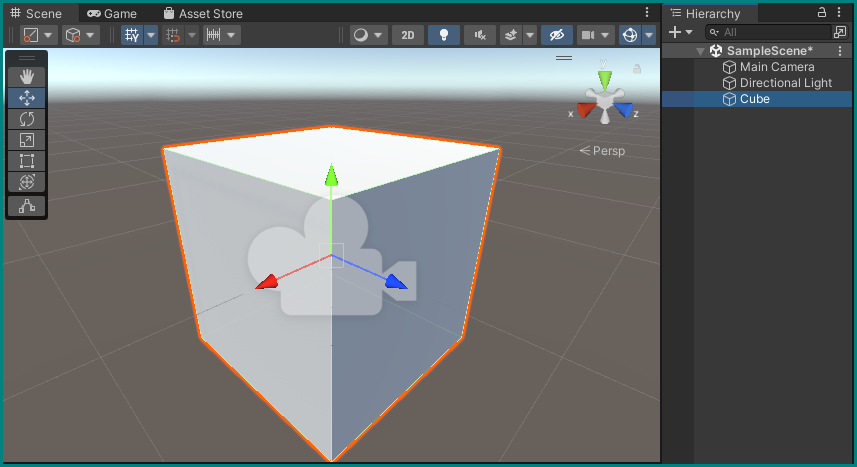
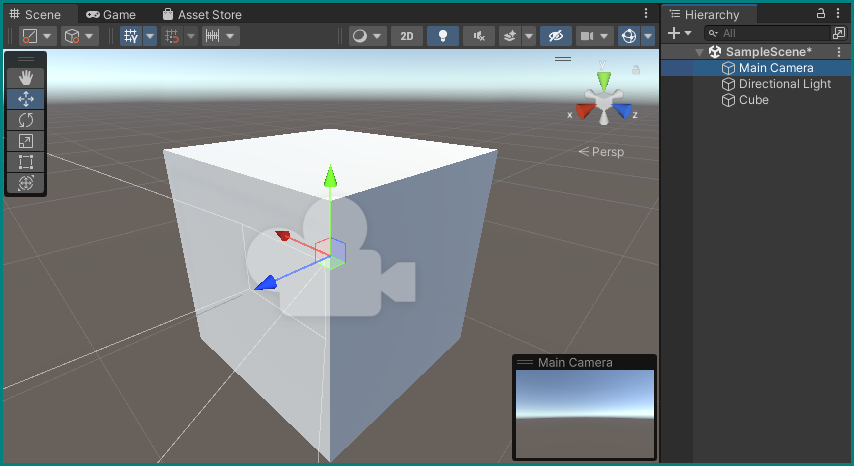
Get ready to code

diff --git a/site/page-1/index.html b/site/page-1/index.html
@@ -66,7 +66,7 @@
     <div data-md-component="skip">
       
         
-        <a href="#first-unity-project" class="md-skip">
+        <a href="#first-unity-project-getting-to-know-the-editors" class="md-skip">
           Skip to content
         </a>
       
@@ -254,8 +254,36 @@
     <ul class="md-nav__list" data-md-component="toc" data-md-scrollfix>
       
         <li class="md-nav__item">
-  <a href="#create-a-project-using-the-hub" class="md-nav__link">
-    Create A Project Using The Hub
+  <a href="#create-a-first-project-using-the-unity-hub" class="md-nav__link">
+    Create a first project using the Unity Hub
+  </a>
+  
+</li>
+      
+        <li class="md-nav__item">
+  <a href="#setting-up-the-editor" class="md-nav__link">
+    Setting up the Editor
+  </a>
+  
+</li>
+      
+        <li class="md-nav__item">
+  <a href="#scene-hierarchy-and-camera-views-inspector" class="md-nav__link">
+    Scene, Hierarchy, and Camera Views + Inspector
+  </a>
+  
+</li>
+      
+        <li class="md-nav__item">
+  <a href="#creating-a-first-object" class="md-nav__link">
+    Creating a first object
+  </a>
+  
+</li>
+      
+        <li class="md-nav__item">
+  <a href="#animating-an-object" class="md-nav__link">
+    Animating an object
   </a>
   
 </li>
@@ -310,8 +338,36 @@
     <ul class="md-nav__list" data-md-component="toc" data-md-scrollfix>
       
         <li class="md-nav__item">
-  <a href="#create-a-project-using-the-hub" class="md-nav__link">
-    Create A Project Using The Hub
+  <a href="#create-a-first-project-using-the-unity-hub" class="md-nav__link">
+    Create a first project using the Unity Hub
+  </a>
+  
+</li>
+      
+        <li class="md-nav__item">
+  <a href="#setting-up-the-editor" class="md-nav__link">
+    Setting up the Editor
+  </a>
+  
+</li>
+      
+        <li class="md-nav__item">
+  <a href="#scene-hierarchy-and-camera-views-inspector" class="md-nav__link">
+    Scene, Hierarchy, and Camera Views + Inspector
+  </a>
+  
+</li>
+      
+        <li class="md-nav__item">
+  <a href="#creating-a-first-object" class="md-nav__link">
+    Creating a first object
+  </a>
+  
+</li>
+      
+        <li class="md-nav__item">
+  <a href="#animating-an-object" class="md-nav__link">
+    Animating an object
   </a>
   
 </li>
@@ -331,11 +387,11 @@
                   
 
 
-<h1 id="first-unity-project">First Unity Project</h1>
+<h1 id="first-unity-project-getting-to-know-the-editors">First Unity Project — getting to know the Editors</h1>
 <p><img src="0-hub-app.png" alt="Iconic" width="200"/></p>
 <!-- ![Unity Hub Desktop Icon](assets/page-1/0-hub-app.png "Iconic") -->
 
-<h2 id="create-a-project-using-the-hub">Create A Project Using The Hub</h2>
+<h2 id="create-a-first-project-using-the-unity-hub">Create a first project using the Unity Hub</h2>
 <p>If not already running on your computer, start the Unity Hub (see the icon above). Depending on previous use there may be already projects listed in its window — if so, disregard them for now and just click the <strong>New project</strong> button.</p>
 <p><img alt="The Unity Hub" src="0-hub-new.png" title="The Unity Hub" /></p>
 <p>You will be presented with a dialog to configure the project. Usually it's already all set up correctly, but to make sure just verify the following points:</p>
@@ -347,6 +403,53 @@
 <p><img alt="Creating a new project" src="1-hub-create.png" title="My first Unity Project" /></p>
 <p>Pushing the <strong>Create project</strong> button will open the <em>Unity Editor</em> and tell it create a new project with the above parameters. This may take some time…</p>
 <p><img alt="Now Printing" src="2-wait.png" title="なうぷりんてぃんぐ" /></p>
+<h2 id="setting-up-the-editor">Setting up the Editor</h2>
+<p>Once this process is complete, you will see a the Unity Editor in its default configuration, showing a blank <em>scene.</em></p>
+<p><img alt="Raw Unity" src="3-raw-unity.png" title="Blank and raw" /></p>
+<p>You can leave this as is, or drag the tab handles and section dividers around to create a more comfortable working environment. One particularly important change would be to permanently reveal the <em>Console</em> window by dragging the <em>Project</em> window it's being obscured by to a new location. Below is our suggested arrangement with new placements of the <em>Hierarchy,</em> <em>Project,</em> and <em>Console</em> windows.</p>
+<p><img alt="Comfortable Unity" src="4-better-unity.png" title="That's better." /></p>
+<p>The biggest part should show you the <em><strong>Scene</strong> View,</em> where you can freely navigate using common 3D software controls, like zooming in and out with the mouse wheel, rotating by holding the right mouse button, and translating your position by holding the middle mouse button. See the <a href="https://docs.unity3d.com/Manual/SceneViewNavigation.html">official Unity manual</a> on more information on this.</p>
+<h2 id="scene-hierarchy-and-camera-views-inspector">Scene, Hierarchy, and Camera Views + Inspector</h2>
+<p>The Scene View shows you the contents of your currently open <em>Scene</em> — a kind of super <em>Object</em> that holds all other objects. A full overview of all objects and their relationships is shown in the <em><strong>Hierarchy</strong> window</em> — as you can see, it currently only contains our only Scene (<strong>SampleScene</strong>), which holds a simple <em>Directional Light</em> for illuminating the world and the <em>Main Camera</em> that lets a player see it. Let's select that camera by clicking on it in the <em>Hierarchy</em> or on its <em>Gizmo</em> (camera icon) in the <em>Scene</em> view:</p>
+<p><img alt="Selected Camera" src="5-select-camera.png" title="Inspecting the camera" /></p>
+<p>It is now highlighted in both <em>Scene</em> and <em>Hierarchy</em> views, as shown by a highlight and the appearance of arrows pointing in the cardinal directions around the object. In addition, a view from this camera now shows up in the Scene view as a floating window: this is what a player of this game will see if we run it. The same view is visible in a full window by selecting the <em>Game</em> tab in the Scene window.</p>
+<p>Another thing that happens when we select a <em>Game Object</em> like this camera in the editor is the appearance of this object's <em><strong>Inspector</strong></em> in its previously empty window to the top right. This window allows us to view and change every single aspect of any Game Object, which may differ by their type. One <em>Component</em> all possible objects, be they cameras, lights, or dinosaur models share is their <em>Transform:</em> a grid that contains the coordinates of their position, rotation vector, and its scale.</p>
+<details class="info">
+<summary>Transforms and Hierarchies</summary>
+<p>In the case of the camera and light and any other objects directly under the <strong>SampleScene</strong> Scene object, these coordinates are equivalent to their "world" coordinates. For any object that sits below another in the Hierarchy, these coordinates are basically offset by those of their <em>Parent.</em> See Unity's documentation on the <a href="https://docs.unity3d.com/Manual/Hierarchy.html">Hierarchy</a> and <a href="https://docs.unity3d.com/Manual/class-Transform.html">Transforms</a> for more details.</p>
+</details>
+<p>Let's set the camera's Position to the <em>origin</em> and rotate it to point in the blue arrow's (the Z-axis) direction by editing its Transform Component accordingly: set Position <code>X=0, Y=0, Z=0</code> and Rotation <code>X=0, Y=90, Z=0</code>.</p>
+<p><img alt="Moved Camera" src="6-camera-transform.png" title="Moved the camera" /></p>
+<h2 id="creating-a-first-object">Creating a first object</h2>
+<p>Let's bring a cube into the scene.</p>
+<p>While you can go to the main menu under <em>GameObject</em> and select what you want to create, a more precise way is to right-click on an empty part of the Hierarchy and selecting <strong>3D Object → Cube</strong>. This will create a basic cube <em>GameObject</em> inside our Scene, with a default Transform. If we had right-clicked on any existing object in the scene instead of on an empty space, we would have created a <em>child</em> object that would be tied to its <em>parent,</em> and this is not what we want in this case.</p>
+<p><img alt="Adding a cube" src="7-create-box.png" title="Basic Box" /></p>
+<p>If you double-click on the new Cube object in the hierarchy, the scene view will fully zoom into it, showing that it basically swallowed our camera. If you select our camera object again, its view (or the Game View) won't show the cube — the way most 3D engines work, objects are transparent from the inside.</p>
+<p><img alt="Big box" src="8-big-box.png" title="Big Box" /></p>
+<p>Let's move the box to a position where the camera can see it, and also try making it smaller by setting its transform component to Position <code>X=2, Y=0, Z=0</code> and Scale <code>X=0.2, Y=0.2, Z=0.2</code>.</p>
+<p>Selecting our camera again, we can now see a small box appearing at the center of its view. If the cube is now gone from our scene view, just zoom out a bit, or double-click it again in the hierarchy.</p>
+<p><img alt="Small box" src="9-small-box.png" title="smol box" /></p>
+<p>You can keep playing around with the cube's Transform component to move it around and scale it, or also use the handles in the scene view: dragging one of the three arrows or the squares between them will also change the transform accordingly.</p>
+<details class="info">
+<summary>More on Positioning</summary>
+<p>There are many more ways to change the transform with the mouse. You can switch transform modes by pressing <strong>W</strong>, <strong>E</strong>, <strong>R</strong>, or by selecting the different icons in the little floating window in the scene view to move, rotate, scale an object, respectively. See the <a href="https://docs.unity3d.com/Manual/PositioningGameObjects.html">Unity Documentation</a> for more details on this.</p>
+</details>
+<h2 id="animating-an-object">Animating an object</h2>
+<p>All we did so far is not much different than using any basic 3D creation software. Where a game engine like Unity differs, is its ability of freely <em>scripting</em> the objects we place in scenes, using programming languages.</p>
+<div class="highlight"><span class="filename">Rotating.cs</span><pre><span></span><code><a id="__codelineno-0-1" name="__codelineno-0-1" href="#__codelineno-0-1"></a><span class="k">using</span><span class="w"> </span><span class="nn">UnityEngine</span><span class="p">;</span><span class="w"></span>
+<a id="__codelineno-0-2" name="__codelineno-0-2" href="#__codelineno-0-2"></a>
+<a id="__codelineno-0-3" name="__codelineno-0-3" href="#__codelineno-0-3"></a><span class="k">public</span><span class="w"> </span><span class="k">class</span><span class="w"> </span><span class="nc">Rotating</span><span class="w"> </span><span class="p">:</span><span class="w"> </span><span class="n">MonoBehaviour</span><span class="w"></span>
+<a id="__codelineno-0-4" name="__codelineno-0-4" href="#__codelineno-0-4"></a><span class="p">{</span><span class="w"></span>
+<a id="__codelineno-0-5" name="__codelineno-0-5" href="#__codelineno-0-5"></a><span class="w">    </span><span class="na">[Tooltip(&quot;Units per second&quot;)]</span><span class="w"> </span><span class="k">public</span><span class="w"> </span><span class="kt">float</span><span class="w"> </span><span class="n">speed</span><span class="p">;</span><span class="w"> </span><span class="c1">// Set to 180 in editor</span>
+<a id="__codelineno-0-6" name="__codelineno-0-6" href="#__codelineno-0-6"></a><span class="w">    </span><span class="na">[Tooltip(&quot;Axis to rotate around&quot;)]</span><span class="w"> </span><span class="k">public</span><span class="w"> </span><span class="n">Vector3</span><span class="w"> </span><span class="n">axis</span><span class="p">;</span><span class="w"> </span><span class="c1">// Set to (1,0,0) in editor</span>
+<a id="__codelineno-0-7" name="__codelineno-0-7" href="#__codelineno-0-7"></a>
+<a id="__codelineno-0-8" name="__codelineno-0-8" href="#__codelineno-0-8"></a><span class="w">    </span><span class="c1">// Update is called once per frame</span>
+<a id="__codelineno-0-9" name="__codelineno-0-9" href="#__codelineno-0-9"></a><span class="w">    </span><span class="k">void</span><span class="w"> </span><span class="nf">Update</span><span class="p">()</span><span class="w"></span>
+<a id="__codelineno-0-10" name="__codelineno-0-10" href="#__codelineno-0-10"></a><span class="w">    </span><span class="p">{</span><span class="w"></span>
+<a id="__codelineno-0-11" name="__codelineno-0-11" href="#__codelineno-0-11"></a><span class="w">        </span><span class="n">transform</span><span class="p">.</span><span class="n">Rotate</span><span class="p">(</span><span class="n">axis</span><span class="p">,</span><span class="w"> </span><span class="n">speed</span><span class="w"> </span><span class="p">*</span><span class="w"> </span><span class="n">Time</span><span class="p">.</span><span class="n">deltaTime</span><span class="p">);</span><span class="w"></span>
+<a id="__codelineno-0-12" name="__codelineno-0-12" href="#__codelineno-0-12"></a><span class="w">    </span><span class="p">}</span><span class="w"></span>
+<a id="__codelineno-0-13" name="__codelineno-0-13" href="#__codelineno-0-13"></a><span class="p">}</span><span class="w"></span>
+</code></pre></div>
 
 
 
@@ -358,11 +461,6 @@
           
           
         </div>
-        
-          <a href="#" class="md-top md-icon" data-md-component="top" hidden>
-            <svg xmlns="http://www.w3.org/2000/svg" viewBox="0 0 24 24"><path d="M13 20h-2V8l-5.5 5.5-1.42-1.42L12 4.16l7.92 7.92-1.42 1.42L13 8v12Z"/></svg>
-            Back to top
-          </a>
         
       </main>
       
@@ -425,7 +523,7 @@
       <div class="md-dialog__inner md-typeset"></div>
     </div>
     
-    <script id="__config" type="application/json">{"base": "..", "features": ["navigation.tracking", "navigation.instant", "navigation.indexes", "toc.follow", "navigation.top", "header.autohide"], "search": "../assets/javascripts/workers/search.5bf1dace.min.js", "translations": {"clipboard.copied": "Copied to clipboard", "clipboard.copy": "Copy to clipboard", "search.config.lang": "en", "search.config.pipeline": "trimmer, stopWordFilter", "search.config.separator": "[\\s\\-]+", "search.placeholder": "Search", "search.result.more.one": "1 more on this page", "search.result.more.other": "# more on this page", "search.result.none": "No matching documents", "search.result.one": "1 matching document", "search.result.other": "# matching documents", "search.result.placeholder": "Type to start searching", "search.result.term.missing": "Missing", "select.version.title": "Select version"}}</script>
+    <script id="__config" type="application/json">{"base": "..", "features": ["navigation.tracking", "navigation.instant", "navigation.indexes", "toc.follow", "header.autohide"], "search": "../assets/javascripts/workers/search.5bf1dace.min.js", "translations": {"clipboard.copied": "Copied to clipboard", "clipboard.copy": "Copy to clipboard", "search.config.lang": "en", "search.config.pipeline": "trimmer, stopWordFilter", "search.config.separator": "[\\s\\-]+", "search.placeholder": "Search", "search.result.more.one": "1 more on this page", "search.result.more.other": "# more on this page", "search.result.none": "No matching documents", "search.result.one": "1 matching document", "search.result.other": "# matching documents", "search.result.placeholder": "Type to start searching", "search.result.term.missing": "Missing", "select.version.title": "Select version"}}</script>
     
     
       <script src="../assets/javascripts/bundle.078830c0.min.js"></script>

diff --git a/site/page-0/index.html b/site/page-0/index.html
@@ -345,11 +345,6 @@
           
         </div>
         
-          <a href="#" class="md-top md-icon" data-md-component="top" hidden>
-            <svg xmlns="http://www.w3.org/2000/svg" viewBox="0 0 24 24"><path d="M13 20h-2V8l-5.5 5.5-1.42-1.42L12 4.16l7.92 7.92-1.42 1.42L13 8v12Z"/></svg>
-            Back to top
-          </a>
-        
       </main>
       
         <footer class="md-footer">
@@ -396,7 +391,7 @@
       <div class="md-dialog__inner md-typeset"></div>
     </div>
     
-    <script id="__config" type="application/json">{"base": "..", "features": ["navigation.tracking", "navigation.instant", "navigation.indexes", "toc.follow", "navigation.top", "header.autohide"], "search": "../assets/javascripts/workers/search.5bf1dace.min.js", "translations": {"clipboard.copied": "Copied to clipboard", "clipboard.copy": "Copy to clipboard", "search.config.lang": "en", "search.config.pipeline": "trimmer, stopWordFilter", "search.config.separator": "[\\s\\-]+", "search.placeholder": "Search", "search.result.more.one": "1 more on this page", "search.result.more.other": "# more on this page", "search.result.none": "No matching documents", "search.result.one": "1 matching document", "search.result.other": "# matching documents", "search.result.placeholder": "Type to start searching", "search.result.term.missing": "Missing", "select.version.title": "Select version"}}</script>
+    <script id="__config" type="application/json">{"base": "..", "features": ["navigation.tracking", "navigation.instant", "navigation.indexes", "toc.follow", "header.autohide"], "search": "../assets/javascripts/workers/search.5bf1dace.min.js", "translations": {"clipboard.copied": "Copied to clipboard", "clipboard.copy": "Copy to clipboard", "search.config.lang": "en", "search.config.pipeline": "trimmer, stopWordFilter", "search.config.separator": "[\\s\\-]+", "search.placeholder": "Search", "search.result.more.one": "1 more on this page", "search.result.more.other": "# more on this page", "search.result.none": "No matching documents", "search.result.one": "1 matching document", "search.result.other": "# matching documents", "search.result.placeholder": "Type to start searching", "search.result.term.missing": "Missing", "select.version.title": "Select version"}}</script>
     
     
       <script src="../assets/javascripts/bundle.078830c0.min.js"></script>

diff --git a/site/404.html b/site/404.html
@@ -273,11 +273,6 @@
           
         </div>
         
-          <a href="#" class="md-top md-icon" data-md-component="top" hidden>
-            <svg xmlns="http://www.w3.org/2000/svg" viewBox="0 0 24 24"><path d="M13 20h-2V8l-5.5 5.5-1.42-1.42L12 4.16l7.92 7.92-1.42 1.42L13 8v12Z"/></svg>
-            Back to top
-          </a>
-        
       </main>
       
         <footer class="md-footer">
@@ -303,7 +298,7 @@
       <div class="md-dialog__inner md-typeset"></div>
     </div>
     
-    <script id="__config" type="application/json">{"base": "/", "features": ["navigation.tracking", "navigation.instant", "navigation.indexes", "toc.follow", "navigation.top", "header.autohide"], "search": "/assets/javascripts/workers/search.5bf1dace.min.js", "translations": {"clipboard.copied": "Copied to clipboard", "clipboard.copy": "Copy to clipboard", "search.config.lang": "en", "search.config.pipeline": "trimmer, stopWordFilter", "search.config.separator": "[\\s\\-]+", "search.placeholder": "Search", "search.result.more.one": "1 more on this page", "search.result.more.other": "# more on this page", "search.result.none": "No matching documents", "search.result.one": "1 matching document", "search.result.other": "# matching documents", "search.result.placeholder": "Type to start searching", "search.result.term.missing": "Missing", "select.version.title": "Select version"}}</script>
+    <script id="__config" type="application/json">{"base": "/", "features": ["navigation.tracking", "navigation.instant", "navigation.indexes", "toc.follow", "header.autohide"], "search": "/assets/javascripts/workers/search.5bf1dace.min.js", "translations": {"clipboard.copied": "Copied to clipboard", "clipboard.copy": "Copy to clipboard", "search.config.lang": "en", "search.config.pipeline": "trimmer, stopWordFilter", "search.config.separator": "[\\s\\-]+", "search.placeholder": "Search", "search.result.more.one": "1 more on this page", "search.result.more.other": "# more on this page", "search.result.none": "No matching documents", "search.result.one": "1 matching document", "search.result.other": "# matching documents", "search.result.placeholder": "Type to start searching", "search.result.term.missing": "Missing", "select.version.title": "Select version"}}</script>
     
     
       <script src="/assets/javascripts/bundle.078830c0.min.js"></script>

diff --git a/site/index.html b/site/index.html
@@ -314,11 +314,6 @@
           
         </div>
         
-          <a href="#" class="md-top md-icon" data-md-component="top" hidden>
-            <svg xmlns="http://www.w3.org/2000/svg" viewBox="0 0 24 24"><path d="M13 20h-2V8l-5.5 5.5-1.42-1.42L12 4.16l7.92 7.92-1.42 1.42L13 8v12Z"/></svg>
-            Back to top
-          </a>
-        
       </main>
       
         <footer class="md-footer">
@@ -365,7 +360,7 @@
       <div class="md-dialog__inner md-typeset"></div>
     </div>
     
-    <script id="__config" type="application/json">{"base": ".", "features": ["navigation.tracking", "navigation.instant", "navigation.indexes", "toc.follow", "navigation.top", "header.autohide"], "search": "assets/javascripts/workers/search.5bf1dace.min.js", "translations": {"clipboard.copied": "Copied to clipboard", "clipboard.copy": "Copy to clipboard", "search.config.lang": "en", "search.config.pipeline": "trimmer, stopWordFilter", "search.config.separator": "[\\s\\-]+", "search.placeholder": "Search", "search.result.more.one": "1 more on this page", "search.result.more.other": "# more on this page", "search.result.none": "No matching documents", "search.result.one": "1 matching document", "search.result.other": "# matching documents", "search.result.placeholder": "Type to start searching", "search.result.term.missing": "Missing", "select.version.title": "Select version"}}</script>
+    <script id="__config" type="application/json">{"base": ".", "features": ["navigation.tracking", "navigation.instant", "navigation.indexes", "toc.follow", "header.autohide"], "search": "assets/javascripts/workers/search.5bf1dace.min.js", "translations": {"clipboard.copied": "Copied to clipboard", "clipboard.copy": "Copy to clipboard", "search.config.lang": "en", "search.config.pipeline": "trimmer, stopWordFilter", "search.config.separator": "[\\s\\-]+", "search.placeholder": "Search", "search.result.more.one": "1 more on this page", "search.result.more.other": "# more on this page", "search.result.none": "No matching documents", "search.result.one": "1 matching document", "search.result.other": "# matching documents", "search.result.placeholder": "Type to start searching", "search.result.term.missing": "Missing", "select.version.title": "Select version"}}</script>
     
     
       <script src="assets/javascripts/bundle.078830c0.min.js"></script>

diff --git a/docs/page-1.md b/docs/page-1.md
@@ -1,4 +1,4 @@
-# First Unity Project — getting to know the Editor
+# First Unity Project — getting to know the Editors
 
 <img src="0-hub-app.png" alt="Iconic" width="200"/>
 <!-- ![Unity Hub Desktop Icon](assets/page-1/0-hub-app.png "Iconic") -->
@@ -65,3 +65,31 @@ If you double-click on the new Cube object in the hierarchy, the scene view will
 Let's move the box to a position where the camera can see it, and also try making it smaller by setting its transform component to Position `X=2, Y=0, Z=0` and Scale `X=0.2, Y=0.2, Z=0.2`.
 
 Selecting our camera again, we can now see a small box appearing at the center of its view. If the cube is now gone from our scene view, just zoom out a bit, or double-click it again in the hierarchy.
+
+![Small box](page-1/9-small-box.png "smol box")
+
+You can keep playing around with the cube's Transform component to move it around and scale it, or also use the handles in the scene view: dragging one of the three arrows or the squares between them will also change the transform accordingly.
+
+??? info "More on Positioning"
+    There are many more ways to change the transform with the mouse. You can switch transform modes by pressing __W__, __E__, __R__, or by selecting the different icons in the little floating window in the scene view to move, rotate, scale an object, respectively. See the [Unity Documentation](https://docs.unity3d.com/Manual/PositioningGameObjects.html) for more details on this.
+
+
+## Animating an object
+
+All we did so far is not much different than using any basic 3D creation software. Where a game engine like Unity differs, is its ability of freely *scripting* the objects we place in scenes, using programming languages.
+
+``` csharp title="Rotating.cs"
+using UnityEngine;
+
+public class Rotating : MonoBehaviour
+{
+    [Tooltip("Units per second")] public float speed; // Set to 180 in editor
+    [Tooltip("Axis to rotate around")] public Vector3 axis; // Set to (1,0,0) in editor
+
+    // Update is called once per frame
+    void Update()
+    {
+        transform.Rotate(axis, speed * Time.deltaTime);
+    }
+}
+```
